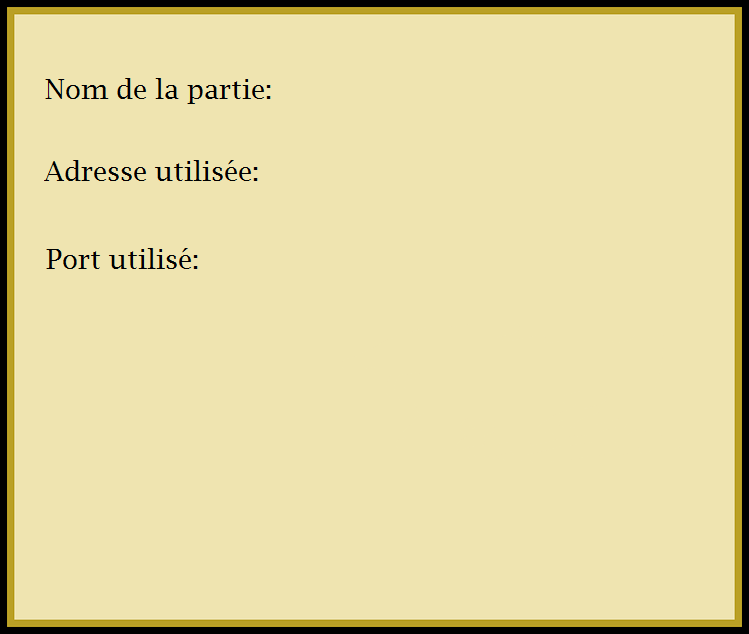
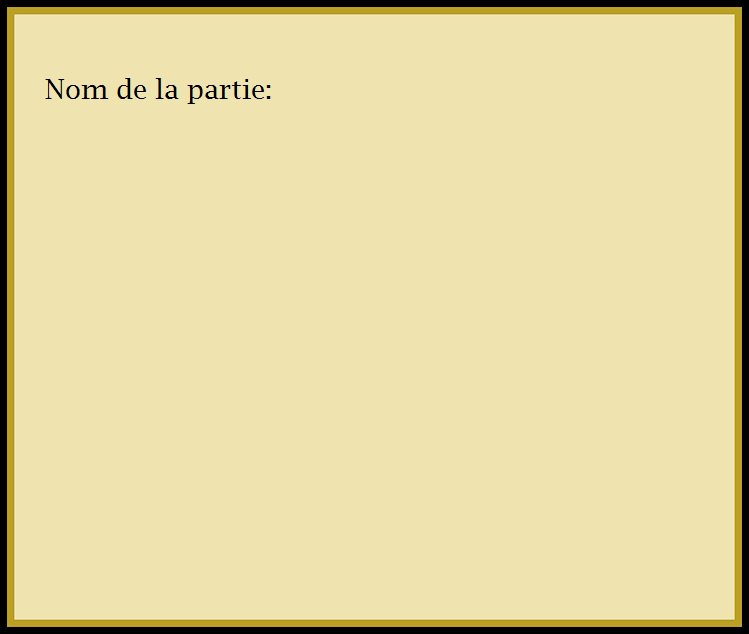
MainMenu++

Changed region(s): [[0.0614, 0.2397, 0.3378, 0.2997], [0.0614, 0.3896, 0.2764, 0.4495]]

diff --git a/src/appli/Appli.java b/src/appli/Appli.java
@@ -1,5 +1,6 @@
 package appli;
 
+import es.entree.CaptureKeyboard;
 import es.entree.Souris;
 import es.sortie.FrameManager;
 import es.sortie.ImageConteneur;
@@ -58,12 +59,9 @@ public class Appli {
 			int usedButtonUnique = mickey.getUniqueUsedButton();
 			if (usedButtonUnique==MouseEvent.BUTTON1 && boutonCreer.getImageDrawingArea().contains(mickey.getInGamePosition())){
 				gererCreerPartie(menu, mickey);
-				//lorsque taper sur zone de texte, ajouterDonnesUI(Vector2i v, new capturekeyboard)
 			}
 			if (usedButtonUnique==MouseEvent.BUTTON1 && boutonRejoindre.getImageDrawingArea().contains(mickey.getInGamePosition())){
-				//rejoindre une partie
-				System.out.println("ah");
-				menu.ajouterImageUI(new ImageConteneur("./assets/img/ui/fenetreRejoindre.jpg",new IntRect(100,50,700,600),10));
+				gererRejoindrePartie(menu, mickey);
 			}
 		}
 		
@@ -71,11 +69,13 @@ public class Appli {
 
 	public static void gererCreerPartie(InterfaceUtilisateurLayer menu, Souris mickey) {
 		boolean conti = true;
-
-		ImageConteneur boutonFermer = new ImageConteneur("./assets/img/ui/nope.jpg", new IntRect(770, 50, 30, 30), 11);
-		ImageConteneur boutonValider = new ImageConteneur("./assets/img/ui/valider.jpg", new IntRect(550, 450, 200, 90), 10);
+		//String nom=null;
+		
 		ImageConteneur fenetreCreer = new ImageConteneur("./assets/img/ui/fenetreCreer.jpg", new IntRect(100, 50, 700, 600), 10);
-
+		ImageConteneur boutonFermer = new ImageConteneur("./assets/img/ui/nope.jpg", new IntRect(770, 50, 30, 30), 11);
+		ImageConteneur boutonValider = new ImageConteneur("./assets/img/ui/valider.jpg", new IntRect(550, 450, 200, 90), 11);	
+		//ImageConteneur zoneTexteNom=new ImageConteneur("./assets/img/ui/zonetexte.jpg", new IntRect(380, 1230, 300, 30), 11);
+		
 		menu.ajouterImageUI(fenetreCreer);
 		menu.ajouterImageUI(boutonFermer);
 		menu.ajouterImageUI(boutonValider);
@@ -89,8 +89,68 @@ public class Appli {
 				menu.retirerImageUI(boutonFermer);
 				conti = false;
 				System.out.println("oui");
-
 			}
+			/*if (ub == MouseEvent.BUTTON1 && zoneTexteNom.getImageDrawingArea().contains(mickey.getInGamePosition())){
+				CaptureKeyboard ck =new CaptureKeyboard();
+				menu.ajouterDonnesUI(zoneTexteNom.getImageDrawingArea().getXY(), ck);
+				try {
+					ck.launchInNewThread().join();
+				} catch (InterruptedException e) {
+					e.printStackTrace();
+				}
+				nom=ck.toString();
+			}
+			
+			if (ub == MouseEvent.BUTTON1 && boutonValider.getImageDrawingArea().contains(mickey.getInGamePosition())) {
+				if(nom!=null){
+					//lancer socket, utiliser nom, etc
+					System.out.println("oui");
+				}
+			}
+			*/
+		}
+	}
+	public static void gererRejoindrePartie(InterfaceUtilisateurLayer menu, Souris mickey) {
+		boolean conti = true;
+		String nom=null;
+		
+		ImageConteneur fenetreCreer = new ImageConteneur("./assets/img/ui/fenetreCreer.jpg", new IntRect(100, 50, 700, 600), 10);
+		ImageConteneur boutonFermer = new ImageConteneur("./assets/img/ui/nope.jpg", new IntRect(770, 50, 30, 30), 11);
+		ImageConteneur boutonValider = new ImageConteneur("./assets/img/ui/valider.jpg", new IntRect(550, 450, 200, 90), 11);	
+		ImageConteneur zoneTexteNom=new ImageConteneur("./assets/img/ui/zonetexte.jpg", new IntRect(380, 1230, 300, 30), 11);
+		
+		menu.ajouterImageUI(fenetreCreer);
+		menu.ajouterImageUI(boutonFermer);
+		menu.ajouterImageUI(boutonValider);
+
+		while (conti) {
+			//créer une partie
+			int ub = mickey.getUniqueUsedButton();
+			if (ub == MouseEvent.BUTTON1 && boutonFermer.getImageDrawingArea().contains(mickey.getInGamePosition())) {
+				menu.retirerImageUI(fenetreCreer);
+				menu.retirerImageUI(boutonValider);
+				menu.retirerImageUI(boutonFermer);
+				conti = false;
+				System.out.println("oui");
+			}
+			if (ub == MouseEvent.BUTTON1 && zoneTexteNom.getImageDrawingArea().contains(mickey.getInGamePosition())){
+				CaptureKeyboard ck =new CaptureKeyboard();
+				menu.ajouterDonnesUI(zoneTexteNom.getImageDrawingArea().getXY(), ck);
+				try {
+					ck.launchInNewThread().join();
+				} catch (InterruptedException e) {
+					e.printStackTrace();
+				}
+				nom=ck.toString();
+			}
+			
+			if (ub == MouseEvent.BUTTON1 && boutonValider.getImageDrawingArea().contains(mickey.getInGamePosition())) {
+				if(nom!=null){
+					//lancer socket, utiliser nom, etc
+					System.out.println("oui");
+				}
+			}
+			
 		}
 	}
 }
